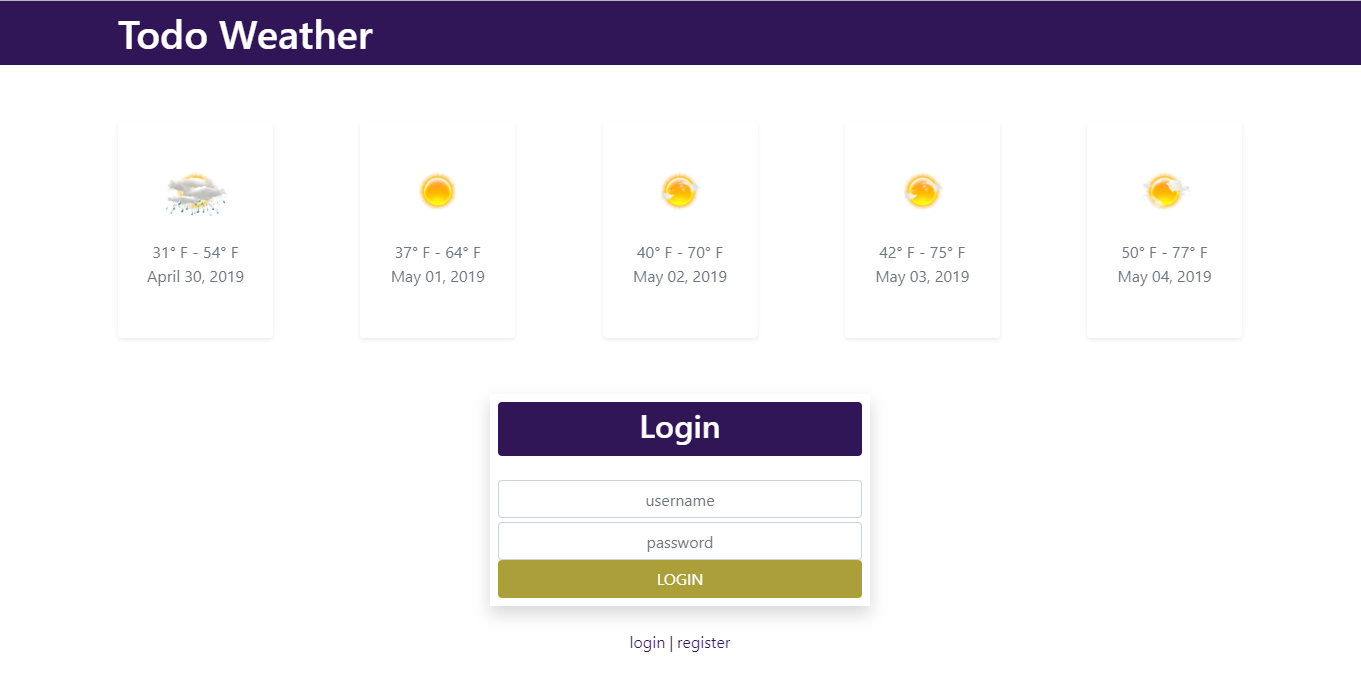
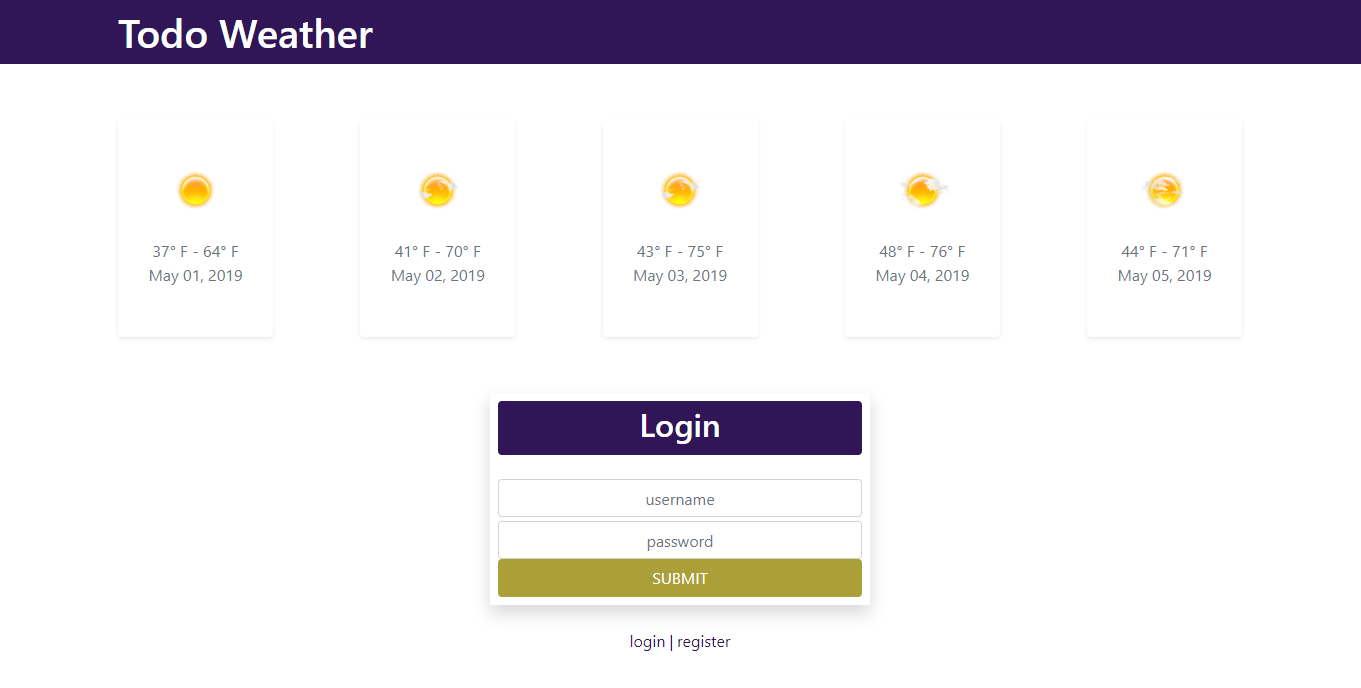
removed __pycache__ from remote

diff --git a/client/src/js/components/Main/Authorization/Authorize.js b/client/src/js/components/Main/Authorization/Authorize.js
@@ -2,7 +2,7 @@ import uuidv4 from "uuid/v4";
 import classNames from "classnames";
 import Client from "../../../Client";
 import Helpers from "../../../Helpers";
-import React, { Component, Fragment } from "react";
+import React, { Component } from "react";
 
 import Input from "./Input";
 
@@ -12,7 +12,7 @@ const formStyles = validated => classNames(
 );
 
 const errorStyles = error => classNames(
-    [ "col-md-6", "col-xl-4", "alert", "alert-danger", "text-center","fade" ],
+    [ "col-md-6", "col-xl-4", "alert", "alert-danger", "text-center", "fade" ],
     { show: error }
 );
 
@@ -134,7 +134,7 @@ class Authorize extends Component {
                         className="bg-secondary text-white btn btn-block"
                         type="submit"
                     >
-                        {this.state.context.toUpperCase()}
+                        SUBMIT
                     </button>
                 </form>
                 <div className="mb-5">
